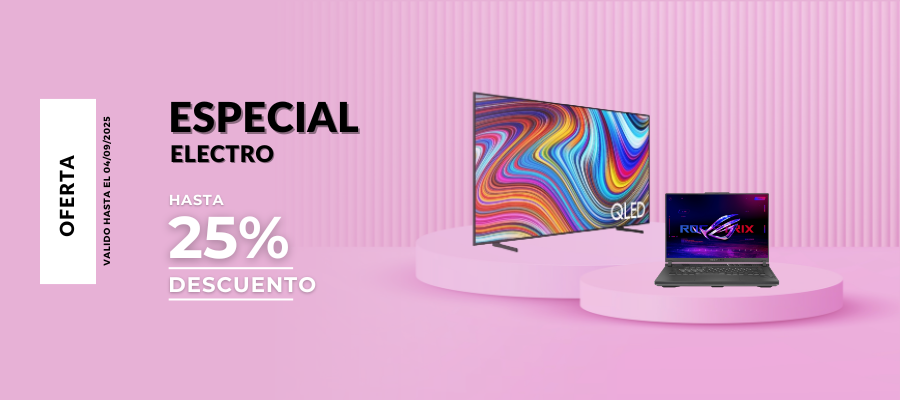
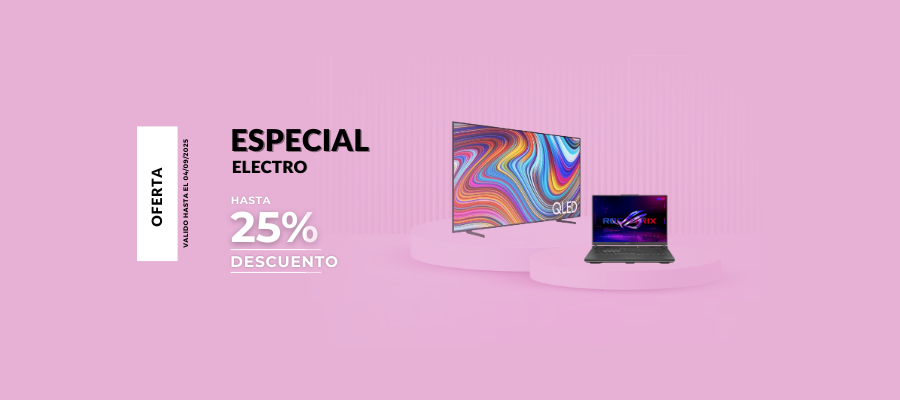
style: se modifica el estilo de los carruseles [Efimov Valentina]

Changed region(s): [[0.4667, 0.21, 0.9956, 0.84], [0.0311, 0.24, 0.4044, 0.75], [0.9956, 0.6, 1.0, 0.63]]

diff --git a/src/App.css b/src/App.css
@@ -10,10 +10,13 @@
 /* Comienzo del estilo del navbar */
 
 .navbar {
-  display: flex;
-  justify-content: center;
-  background-color: #224274;
+  position: absolute;
+  width: 100vw;
+  background: rgba(0, 0, 0, 0.438);
   height: 8em;
+  z-index: 1000;
+  border: none;
+  box-shadow: none;
 }
 
 a.nav-link, .categorias {
@@ -34,7 +37,7 @@ a.nav-link, .categorias {
 
 .logo-col {
   height: 100%;
-  padding: 0 !important;
+  padding: 0;
 }
 
 .logo {
@@ -104,6 +107,30 @@ a.nav-link, .categorias {
   margin-left: 0.3em;
 }
 
+/* Finaliza del estilo del navbar */
+/* Comienzo del estilo del inicio */
+
+.carousel-control-prev-icon,
+.carousel-control-next-icon {
+  filter: invert(1) grayscale(1) brightness(0.3);
+}
+
+.container-inicio {
+  width: 100%;
+  height: 100vh;
+  position: relative;
+}
+
+
+.imagenes-principal {
+  width: 100%;
+  height: 90vh;
+  object-fit: cover;
+  margin-top: 0;
+}
+
+
+
 @media (min-width: 992px) {
   .card-producto {
     flex: 0 0 20%;
@@ -111,12 +138,7 @@ a.nav-link, .categorias {
   }
 }
 
-.carousel-control-prev-icon,
-.carousel-control-next-icon {
-  filter: invert(1) grayscale(1) brightness(0.3);
-}
 
-/* Finaliza del estilo del navbar */
 
 /*span.inicio.badge.bg-primary {
   background-color: transparent;

diff --git a/src/components/CarruselDeImagenes.jsx b/src/components/CarruselDeImagenes.jsx
@@ -5,7 +5,7 @@ function CarruselDeImagenes({ imagenes }) {
     <Carousel indicators={false} controls={true} interval={null} wrap={true}>
       {imagenes.map((img, idx) => (
         <Carousel.Item key={idx}>
-          <img src={img} alt={`slide-${idx}`} style={{ width: "100%", height: "300px", objectFit: "cover" }} />
+          <img src={img} alt={`slide-${idx}`} className={img.includes("productos") ? "imagenes-principal" : "imagenes-promocion"}/>
         </Carousel.Item>
       ))}
     </Carousel>

diff --git a/src/pages/Inicio.jsx b/src/pages/Inicio.jsx
@@ -140,9 +140,9 @@ function Inicio() {
 
 
   return (
-    <div className="container">
+    <div className="container-inicio">
 
-      <CarruselDeImagenes imagenes={imagenesPrincipal} />
+      <CarruselDeImagenes imagenes={imagenesPrincipal} className="contenedor-principal" />
 
       <h2>Productos con Descuento</h2>
       <CarruselDeProductos
